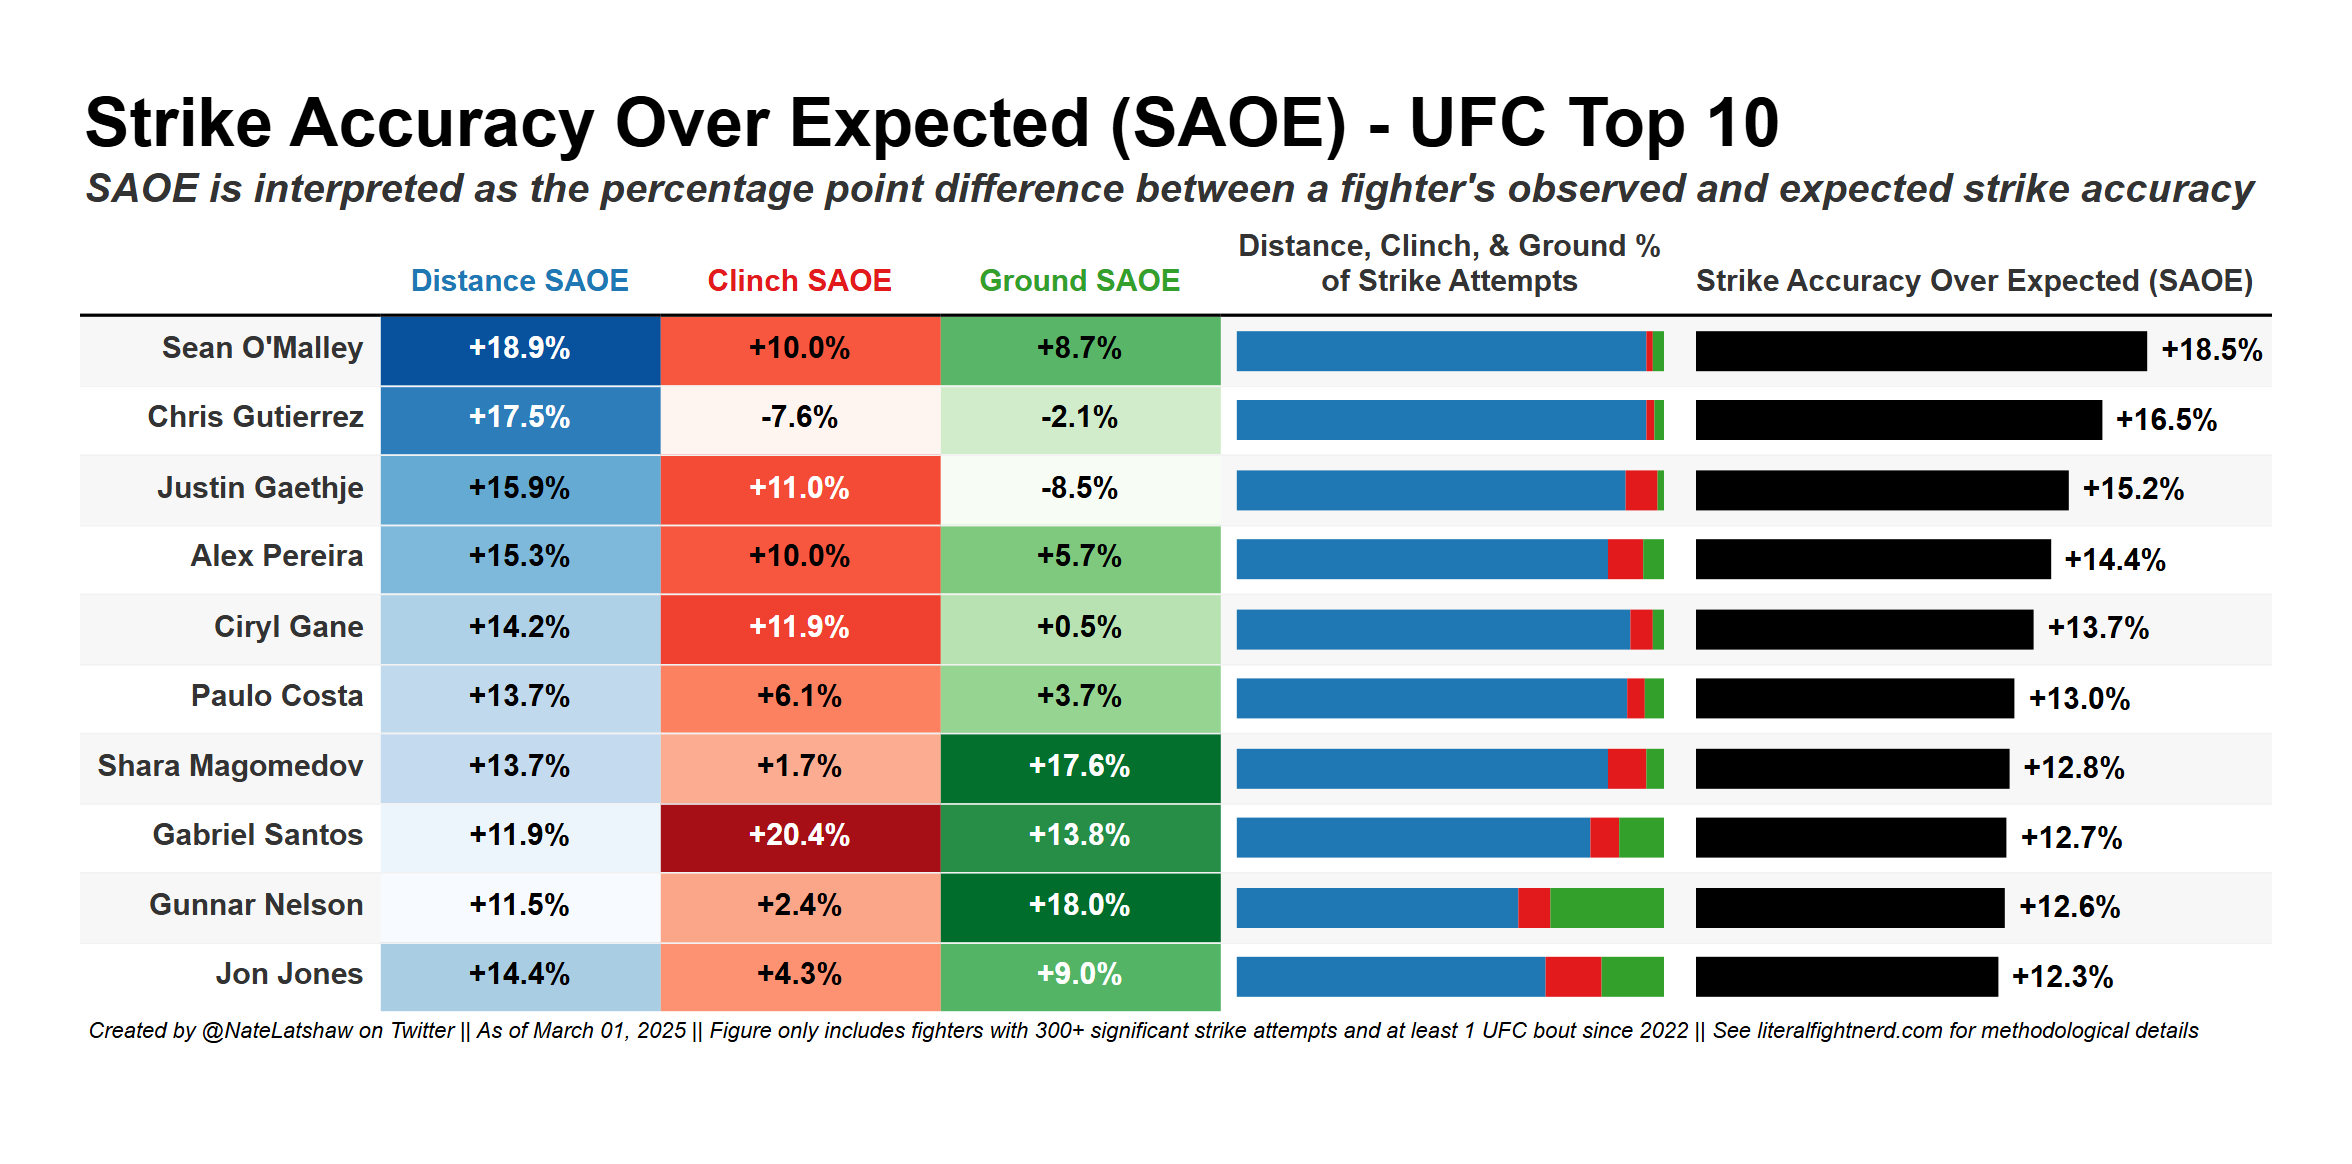
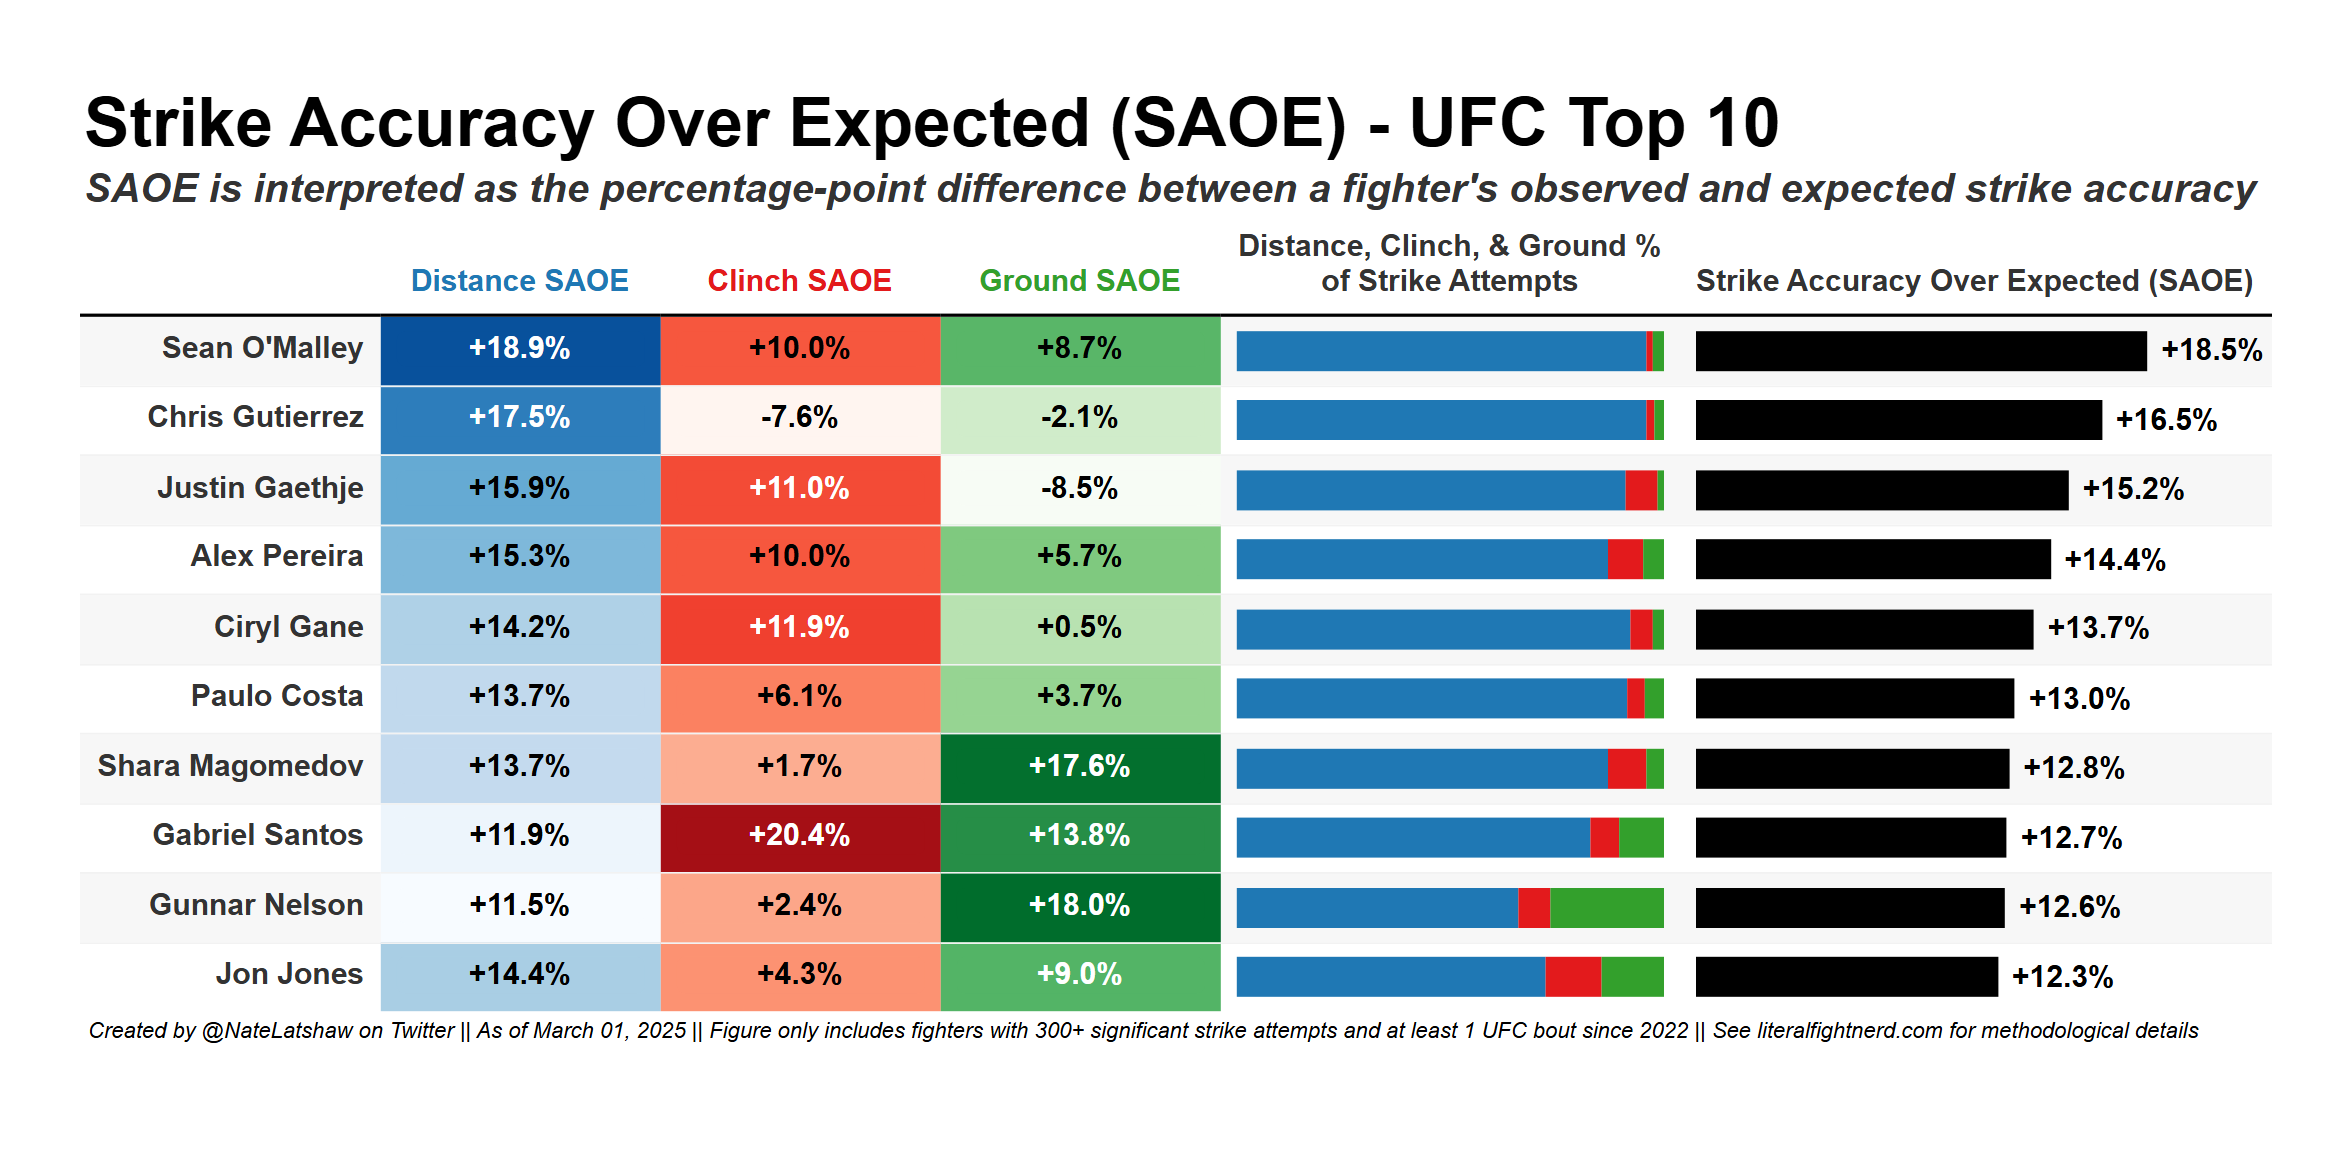
fix typos in SAOE post

Changed region(s): [[0.3414, 0.1546, 0.9622, 0.1856]]

diff --git a/_site/posts/2025-03-02-introducing-strike-accuracy-over-expected/index.html b/_site/posts/2025-03-02-introducing-strike-accuracy-over-expected/index.html
@@ -212,7 +212,7 @@ ul.task-list li input[type="checkbox"] {
 <p>To solve this limitation of strike accuracy as a metric, the UFC computes an expected strike accuracy based on both (a) the types of strikes that each fighter throws and (b) the rate at which each type of strike has landed historically across all fighters. Then, the difference between a fighter’s observed and expected strike accuracy is computed to serve as a more meaningful measure of accuracy.</p>
 <p>This blog post utilizes this concept to formally introduce Strike Accuracy Over Expected (SAOE), a new metric that aims to quantify a fighter’s striking precision in a manner that improves upon the traditional strike accuracy metric. The details are provided below in this post, but put simply, SAOE has three desirable properties:</p>
 <ol type="1">
-<li><p><strong>SAOE is easily interpreted</strong> - it is interpreted as the percentage point difference between a fighter’s observed and expected strike accuracy.</p></li>
+<li><p><strong>SAOE is easily interpreted</strong> - it is interpreted as the percentage-point difference between a fighter’s observed and expected strike accuracy.</p></li>
 <li><p><strong>SAOE offers new insights</strong> - it contains a frame of reference for strike accuracy against which to compare to a fighter’s performance and wraps that up into a single, composite metric that quantifies striking precision.</p></li>
 <li><p><strong>SAOE facilitates meaningful comparisons between fighters with different styles</strong> - it is correlated with strike accuracy but uncorrelated with striking tendencies.</p></li>
 </ol>
@@ -354,7 +354,7 @@ ul.task-list li input[type="checkbox"] {
 </section>
 <section id="calculating-strike-accuracy-over-expected-saoe" class="level1">
 <h1>Calculating Strike Accuracy Over Expected (SAOE)</h1>
-<p><strong>SAOE is interpreted as the percentage point difference between observed and expected strike accuracy based on the types of strikes thrown</strong>. Positive numbers indicate fighters are more accurate than we would expect given their strike attempt distribution, and thus, elite strikers often rank highly in SAOE.</p>
+<p><strong>SAOE is interpreted as the percentage-point difference between observed and expected strike accuracy based on the types of strikes thrown</strong>. Positive numbers indicate fighters are more accurate than we would expect given their strike attempt distribution, and thus, elite strikers often rank highly in SAOE.</p>
 <p>Understanding SAOE is as simple as comprehending the paragraph above. Now, the rest of this section gets mildly technical to show the computational details of the SAOE metric, so here is your warning if that is not of interest - you should be able to safely skip to the next section that showcases the importance of SAOE. For everyone else, I attempt to keep the forthcoming notation light and as readable as possible.</p>
 <p>Mathematically, SAOE is calculated as follows:</p>
 <p><span class="math display">\[
@@ -575,7 +575,7 @@ SAOE_f &amp;= \text{Significant strike accuracy}_f - \text{Expected significant 
 </section>
 <section id="components-of-saoe" class="level1">
 <h1>Components of SAOE</h1>
-<p>SAOE serves as a composite measure of striking precision across all strikes. However, breaking SAOE into its distance, clinch, and ground striking components is also informative. The formula for, say, Distance SAOE is the same as SAOE, minus the clinch and ground strikes. Hence, Distance SAOE is interpreted as the percentage point difference between observed and expected <em>distance</em> strike accuracy. Clinch SAOE and Ground SAOE are interpreted similarly.</p>
+<p>SAOE serves as a composite measure of striking precision across all strikes. However, breaking SAOE into its distance, clinch, and ground striking components is also informative. The formula for, say, Distance SAOE is the same as SAOE, minus the clinch and ground strikes. Hence, Distance SAOE is interpreted as the percentage-point difference between observed and expected <em>distance</em> strike accuracy. Clinch SAOE and Ground SAOE are interpreted similarly.</p>
 <p>The table below shows the UFC’s top 10 in SAOE alongside each fighter’s Distance, Clinch, and Ground SAOE. We can see that Sean O’Malley predominantly strikes from distance, but his clinch and ground striking precision has been strong so far. However, while Chris Gutierrez also throws the majority of his strikes from distance, the precision of his clinch and ground striking has been lacking. Thus, breaking SAOE into its components can highlight the different strengths and weaknesses of a fighter’s striking game.</p>
 <div class="cell preview-image" data-layout-align="center">
 <div class="cell-output-display">

diff --git a/_site/index.html b/_site/index.html
@@ -204,7 +204,7 @@ ul.task-list li input[type="checkbox"] {
 
 <div class="quarto-listing quarto-listing-container-default" id="listing-listing">
 <div class="list quarto-listing-default">
-<div class="quarto-post image-right" data-index="0" data-listing-date-sort="1740891600000" data-listing-file-modified-sort="1742869363900" data-listing-date-modified-sort="NaN" data-listing-reading-time-sort="38">
+<div class="quarto-post image-right" data-index="0" data-listing-date-sort="1740891600000" data-listing-file-modified-sort="1742934152457" data-listing-date-modified-sort="NaN" data-listing-reading-time-sort="38">
 <div class="thumbnail">
 <p><a href="./posts/2025-03-02-introducing-strike-accuracy-over-expected/index.html"> <p class="card-img-top"><img src="posts\2025-03-02-introducing-strike-accuracy-over-expected\img\saoe-table.png"  class="thumbnail-image card-img"/></p> </a></p>
 </div>
